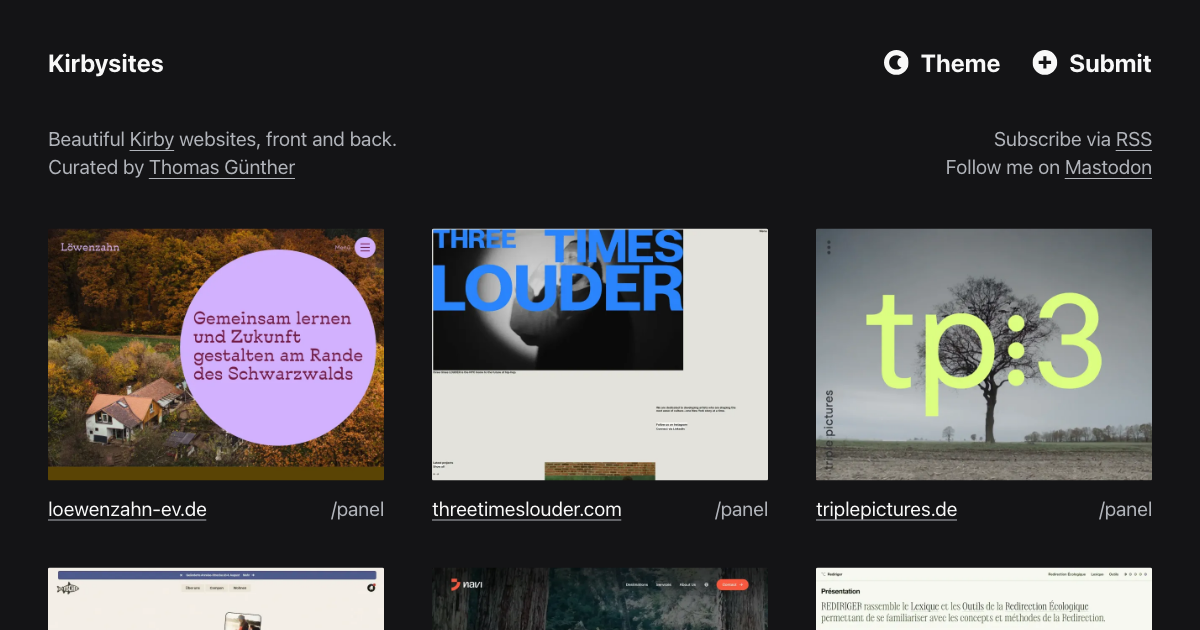
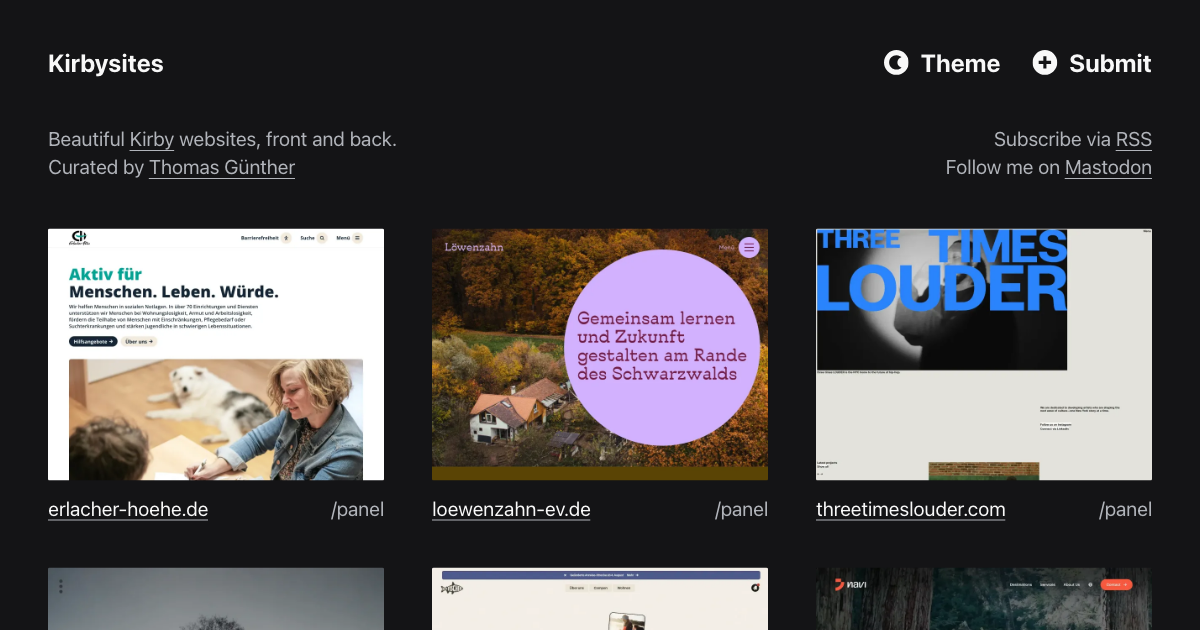
Add erlacher-hoehe.de

diff --git a/content/20260122_erlacher-hoehe-de/4-panel_articles.webp.md b/content/20260122_erlacher-hoehe-de/4-panel_articles.webp.md
@@ -1,0 +1,5 @@
+Alt: Panel page for "Aktuelles"/"News" showing a pages section with multiple articles listed including thumbnails, titles, dates and categories.
+
+----
+
+Caption: By setting the (link: https://getkirby.com/docs/reference/panel/blueprints/page#navigation-option text: navigation option) in the blueprint, it's possible to navigate between different blueprints/templates (like this special articles page) using the arrow buttons in the top right corner.

diff --git a/content/20260122_erlacher-hoehe-de/3-panel_home_2.webp.md b/content/20260122_erlacher-hoehe-de/3-panel_home_2.webp.md
@@ -1,0 +1,5 @@
+Alt: Panel page for "Startseite"/"Home" showing a blocks field with a Call to Action and an Image Cards block.
+
+----
+
+Caption: Pages use the (link: https://getkirby.com/docs/reference/panel/fields/blocks text: blocks field) with many different custom blocks using `preview: fields`, so users can create flexible layouts. Most blocks have different variants like background colours or image positions to choose from in a separate "settings" tab.

diff --git a/content/20260122_erlacher-hoehe-de/1-panel_site.webp.md b/content/20260122_erlacher-hoehe-de/1-panel_site.webp.md
@@ -1,0 +1,5 @@
+Alt: Kirby Panel dashboard with a pages section and an info field welcoming backend users.
+
+----
+
+Caption: Panel users get welcomed with an (link: https://getkirby.com/docs/reference/panel/fields/info text: info field) that provides contact information. With a custom (link: https://getkirby.com/docs/reference/plugins/extensions/user-methods text: user method) the user's first name is extracted and a time-based greeting is displayed.

diff --git a/content/20260122_erlacher-hoehe-de/7-panel_help.webp.md b/content/20260122_erlacher-hoehe-de/7-panel_help.webp.md
@@ -1,0 +1,5 @@
+Alt: Panel view with "Hilfe"/"Help" headline and multiple cards linking to different help topics like "Tipps und Tricks"/"Tips and Tricks", "Informationen zu Kirby"/"Information about Kirby" and "Textformatierung"/"Text Formatting".
+
+----
+
+Caption: Using the (link: https://plugins.getkirby.com/medienbaecker/help-view text: Help View plugin), editors can get quick access to helpful articles right within the Panel.

diff --git a/content/20260122_erlacher-hoehe-de/5-panel_services.webp.md b/content/20260122_erlacher-hoehe-de/5-panel_services.webp.md
@@ -1,0 +1,5 @@
+Alt: Panel page for "Hilfsangebote"/"Services" showing a headline field, a pages section with services and a sidebar with a categories pages section.
+
+----
+
+Caption: Using pages for things like categories is always a good choice as you get UUIDs, slugs, status and multilingual support among other things. By setting `image: false` in the blueprint, you can visually differentiate them from regular pages.

diff --git a/content/20260122_erlacher-hoehe-de/2-panel_home.webp.md b/content/20260122_erlacher-hoehe-de/2-panel_home.webp.md
@@ -1,0 +1,5 @@
+Alt: Panel page for "Startseite"/"Home" showing hero headline, intro text and buttons fields below a "Hero" headline.
+
+----
+
+Caption: Overwriting the `em` style using a (link: https://getkirby.com/docs/reference/system/options/panel#custom-panel-css text: custom Panel CSS) file to match the frontend where the "emphasis" element is displayed in the brand colour.

diff --git a/content/20260122_erlacher-hoehe-de/website.md b/content/20260122_erlacher-hoehe-de/website.md
@@ -1,0 +1,17 @@
+Title: Erlacher Höhe
+
+----
+
+Url: https://erlacher-hoehe.de
+
+----
+
+Text: by (link: https://www.yoshieagata.com/ text: Yoshie Agata) and (link: https://medienbaecker.com/ text: Thomas Günther)
+
+----
+
+Date: 2026-01-22 18:19
+
+----
+
+Uuid: fjgw6mzhlt1ufo3a

diff --git a/content/20260122_erlacher-hoehe-de/frontend.webp.md b/content/20260122_erlacher-hoehe-de/frontend.webp.md
@@ -1,0 +1,1 @@
+Alt: Screenshot of the Erlacher Höhe website with a big headline "Aktiv für Menschen. Leben. Würde.", two buttons and a big hero image.
